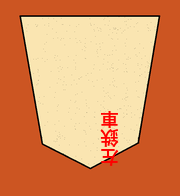
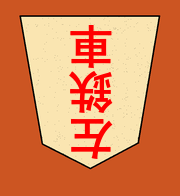
changes for 3 kanji set2 if 180x196

Changed region(s): [[0.3889, 0.1224, 0.6667, 0.8571]]

diff --git a/classes/chu_piece_maker.py b/classes/chu_piece_maker.py
@@ -178,16 +178,17 @@ class ChuPieceMaker():
         elif len(self.kanji_data[piecename]['full_kanji']) > 2:
             #FOR NOW this only works for tiletype C
             #TODO properly handle kanji length 3 (Heavenly Tetrarch)
-            y2 = 4
-            f2 = 19
+            y2 = 9 #4
+            f2 = 46 #19
+            delta_x = 9 #4
             mymarge = 0
             font = ImageFont.truetype("C:\\Windows\\Fonts\\YuGothB.ttc", f2)
             mytext = self.kanji_data[piecename]['full_kanji'][0]
-            draw.text((x + 4, y2),mytext,fontcolor,font=font)
+            draw.text((x + delta_x, y2),mytext,fontcolor,font=font)
             mytext = self.kanji_data[piecename]['full_kanji'][1]
-            draw.text((x + 4, y2 + f2 + mymarge),mytext,fontcolor,font=font)
+            draw.text((x + delta_x, y2 + f2 + mymarge),mytext,fontcolor,font=font)
             mytext = self.kanji_data[piecename]['full_kanji'][2]
-            draw.text((x + 4, y2 + 2 * (f2 + mymarge)),mytext,fontcolor,font=font)
+            draw.text((x + delta_x, y2 + 2 * (f2 + mymarge)),mytext,fontcolor,font=font)
         else:
             mytext = self.kanji_data[piecename]['full_kanji'][0]
             if piecename in ["howling_dog"]:
